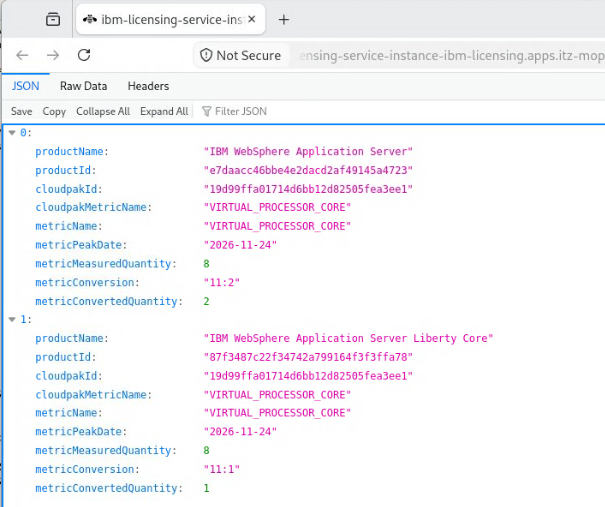
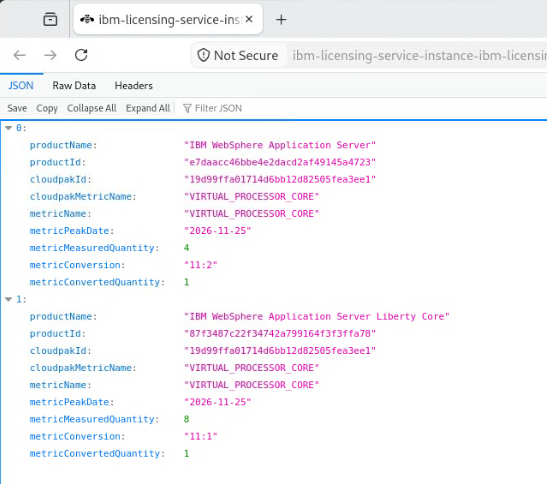
Update ILS screenshots

diff --git a/ILS_README.md b/ILS_README.md
@@ -777,12 +777,11 @@ The current deployment assumes that the application requires Liberty Base entitl
 
     For each bundled product, the quantities are reported:
     
-    - IBM WebSphere Application Server with a quantity of 8 VPCs and a converted quantity of 2 based on the EAR ratio 11:2.
+    - IBM WebSphere Application Server with a metricMeasuredQuantity of 4 VPCs (5 pods of 0.8 cores) and a converted quantity of 1 based on the EAR ratio 11:2.
     This reflects the current deployment of Liberty Base.
 
-    - IBM WebSphere Application Server Liberty Core with a quantity of 8 VPCs and a converted quantity of 1 based on the EAR ratio 11:1.
+    - IBM WebSphere Application Server Liberty Core with a metricMeasuredQuantity of 8 VPCs (10 pods of 0.8 cores) and a converted quantity of 1 based on the EAR ratio 11:1.
 
-    - As WAS based on PVUs is no bundled product, it is not listed here.
 
 3. Review the **IBM License Service Snapshot** report.zip:
 
